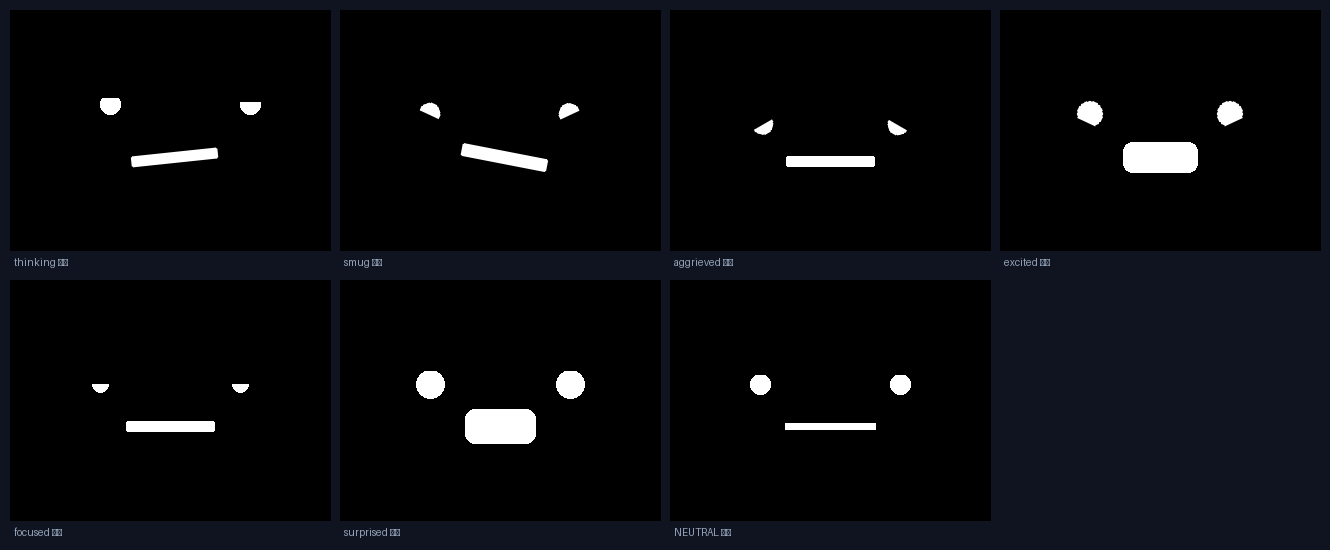
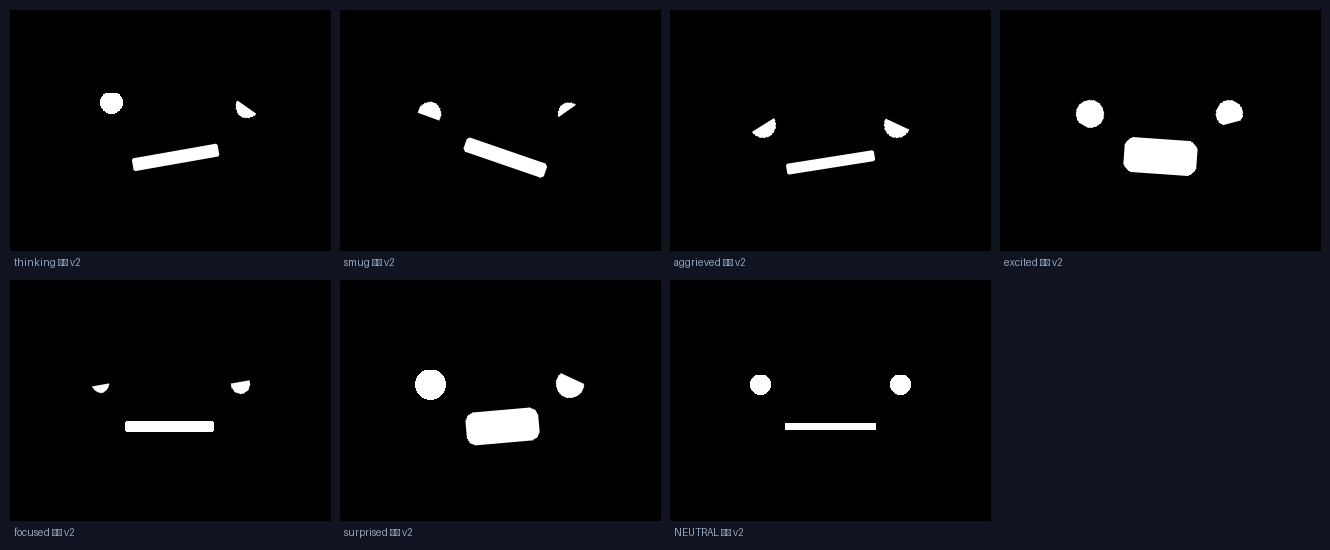
design: expression library v2 — asymmetric skeleton + pupil expressiveness
Explored 3 style directions (cute/theatrical/minimal, docs/style-exploration.png);
final v2 blends the theatrical asymmetric skeleton with cute-style pupil dynamics.
Left/right eyes now intentionally differ per expression (symmetric faces read as
icons, asymmetric as creatures). All presets re-validated through the real
firmware parser; simulator presets updated in lockstep (sync checker green);
41/41 tests pass.

Generated with [Claude Code](https://claude.ai/code)
via [Happy](https://happy.engineering)

diff --git a/docs/face-simulator.html b/docs/face-simulator.html
@@ -165,13 +165,13 @@ const P = {
   doubt:  { lw:75,lr:0, rw:75,rr:0, mw:0 },
   sleepy: { lw:35,lr:-50, rw:35,rr:-50, mw:8, my:14 },
   wink:   { lw:100,lr:0, rw:10,rr:1550, mw:22, my:8, mx:18, mr:-80 },
-  // —— 狗蛋专属预设，参数与 body-client stackchan_body/expressions.py 逐字一致 ——
-  g_thinking:  { lx:60,ly:-65,lw:85,lr:0,ls:0, rx:60,ry:-65,rw:65,rr:0,rs:0, mx:25,my:4,mw:12,mr:60 },
-  g_smug:      { lw:60,lr:1550,ls:0, rw:60,rr:1550,rs:0, mx:28,my:6,mw:14,mr:-110 },
-  g_aggrieved: { lx:15,ly:60,lw:50,lr:300,ls:0, rx:-15,ry:60,rw:50,rr:300,rs:0, my:34,mw:8,mr:0 },
-  g_excited:   { lw:88,lr:1550,ls:45, rw:88,rr:1550,rs:45, my:4,mw:55,mr:0 },
-  g_focused:   { lw:58,lr:0,ls:-30, rw:58,rr:0,rs:-30, mw:6,mr:0 },
-  g_surprised: { lw:100,lr:0,ls:70, rw:100,rr:0,rs:70, mw:65,mr:0 },
+  // —— 狗蛋专属预设 v2 (不对称骨架+瞳孔表现力)，与 stackchan_body/expressions.py 逐字一致 ——
+  g_thinking:  { lx:70,ly:-75,lw:95,lr:0,ls:20, rx:45,ry:-50,rw:50,rr:350,rs:20, mx:32,my:8,mw:14,mr:100 },
+  g_smug:      { lw:70,lr:1600,ls:15, rw:38,rr:1450,rs:15, mx:30,my:8,mw:16,mr:-190 },
+  g_aggrieved: { lx:18,ly:68,lw:52,lr:320,ls:40, rx:-18,ry:68,rw:58,rr:250,rs:40, my:36,mw:7,mr:90 },
+  g_excited:   { lw:100,lr:1500,ls:60, rw:88,rr:1650,rs:50, my:2,mw:62,mr:-40 },
+  g_focused:   { lw:52,lr:100,ls:-30, rw:64,rr:-100,rs:-20, mx:-8,mw:6,mr:0 },
+  g_surprised: { lw:100,lr:0,ls:85, rw:75,rr:250,rs:55, mx:10,mw:58,mr:50 },
 };
 function preset(name){ const base={ lx:0,ly:0,lw:100,lr:0,ls:0, rx:0,ry:0,rw:100,rr:0,rs:0, mx:0,my:0,mw:0,mr:0 }; apply({...base, ...P[name]}); }
 

diff --git a/body-client/stackchan_body/expressions.py b/body-client/stackchan_body/expressions.py
@@ -23,48 +23,50 @@ NEUTRAL: dict = {
     "mouth": {"x": 0, "y": 0, "weight": 0, "rotation": 0},
 }
 
+# v2 设计语言 (2026-07-11 风格探索后定稿): 不对称骨架 + 瞳孔表现力。
+# 左右眼参数刻意不同 —— 对称的脸是图标, 不对称的脸才是生物。
 EXPRESSIONS: dict[str, dict] = {
-    # 思考: 双眼抬向右上方"找答案", 右眼略眯出挑眉感, 嘴小幅右移微斜
+    # 思考: 左眼睁大看右上"找答案", 右眼眯起微斜出"琢磨"感, 嘴右移上斜
     # 用途: M2 长任务进行中 / 狗蛋处理请求时
     "thinking": {
-        "leftEye": {"x": 60, "y": -65, "weight": 85, "rotation": 0, "size": 0},
-        "rightEye": {"x": 60, "y": -65, "weight": 65, "rotation": 0, "size": 0},
-        "mouth": {"x": 25, "y": 4, "weight": 12, "rotation": 60},
+        "leftEye": {"x": 70, "y": -75, "weight": 95, "rotation": 0, "size": 20},
+        "rightEye": {"x": 45, "y": -50, "weight": 50, "rotation": 350, "size": 20},
+        "mouth": {"x": 32, "y": 8, "weight": 14, "rotation": 100},
     },
-    # 得意: 月牙笑眼(155°)压成半眯, 嘴歪向一侧上挑 —— "看我干得漂亮吧"
+    # 得意: 两边月牙眼弧度/开合不对称(痞气), 嘴大角度上挑歪向一侧
     # 用途: 任务顺利完成 / 被夸时
     "smug": {
-        "leftEye": {"x": 0, "y": 0, "weight": 60, "rotation": 1550, "size": 0},
-        "rightEye": {"x": 0, "y": 0, "weight": 60, "rotation": 1550, "size": 0},
-        "mouth": {"x": 28, "y": 6, "weight": 14, "rotation": -110},
+        "leftEye": {"x": 0, "y": 0, "weight": 70, "rotation": 1600, "size": 15},
+        "rightEye": {"x": 0, "y": 0, "weight": 38, "rotation": 1450, "size": 15},
+        "mouth": {"x": 30, "y": 8, "weight": 16, "rotation": -190},
     },
-    # 委屈: 八字垂眼(外高内低 30°)+眼睛内聚下看, 小瘪嘴下移
+    # 委屈: 八字垂眼两边角度略差+大瞳孔(泪眼汪汪), 小瘪嘴下移微斜
     # 用途: 任务失败 / 被大哥说了 / 长时间没人理
     "aggrieved": {
-        "leftEye": {"x": 15, "y": 60, "weight": 50, "rotation": 300, "size": 0},
-        "rightEye": {"x": -15, "y": 60, "weight": 50, "rotation": 300, "size": 0},
-        "mouth": {"x": 0, "y": 34, "weight": 8, "rotation": 0},
+        "leftEye": {"x": 18, "y": 68, "weight": 52, "rotation": 320, "size": 40},
+        "rightEye": {"x": -18, "y": 68, "weight": 58, "rotation": 250, "size": 40},
+        "mouth": {"x": 0, "y": 36, "weight": 7, "rotation": 90},
     },
-    # 兴奋: 大瞳孔(+45)月牙眼 + 大张嘴 —— 汇报好消息
+    # 兴奋: 双眼圆睁大瞳孔(左右略差)+大张嘴微歪 —— 汇报好消息
     # 用途: 大哥回家 / 任务全绿 / M2 完成播报
     "excited": {
-        "leftEye": {"x": 0, "y": 0, "weight": 88, "rotation": 1550, "size": 45},
-        "rightEye": {"x": 0, "y": 0, "weight": 88, "rotation": 1550, "size": 45},
-        "mouth": {"x": 0, "y": 4, "weight": 55, "rotation": 0},
+        "leftEye": {"x": 0, "y": 0, "weight": 100, "rotation": 1500, "size": 60},
+        "rightEye": {"x": 0, "y": 0, "weight": 88, "rotation": 1650, "size": 50},
+        "mouth": {"x": 0, "y": 2, "weight": 62, "rotation": -40},
     },
-    # 专注: 眼睑压半+瞳孔缩小聚焦, 抿直嘴 —— 监工模式
+    # 专注: 两眼眯起程度不同+反向微斜(锁定目标), 瞳孔缩小, 抿直嘴
     # 用途: M2 盯 Happy session 时的常驻脸
     "focused": {
-        "leftEye": {"x": 0, "y": 0, "weight": 58, "rotation": 0, "size": -30},
-        "rightEye": {"x": 0, "y": 0, "weight": 58, "rotation": 0, "size": -30},
-        "mouth": {"x": 0, "y": 0, "weight": 6, "rotation": 0},
+        "leftEye": {"x": 0, "y": 0, "weight": 52, "rotation": 100, "size": -30},
+        "rightEye": {"x": 0, "y": 0, "weight": 64, "rotation": -100, "size": -20},
+        "mouth": {"x": -8, "y": 0, "weight": 6, "rotation": 0},
     },
-    # 惊讶: 瞳孔放大(+70) + 嘴张大 —— 出事了/意外情况
+    # 惊讶: 一眼瞳孔放到最大一眼半眯("?!"的错愕感), 嘴张大微歪
     # 用途: 任务报错 / 检测到异常
     "surprised": {
-        "leftEye": {"x": 0, "y": 0, "weight": 100, "rotation": 0, "size": 70},
-        "rightEye": {"x": 0, "y": 0, "weight": 100, "rotation": 0, "size": 70},
-        "mouth": {"x": 0, "y": 0, "weight": 65, "rotation": 0},
+        "leftEye": {"x": 0, "y": 0, "weight": 100, "rotation": 0, "size": 85},
+        "rightEye": {"x": 0, "y": 0, "weight": 75, "rotation": 250, "size": 55},
+        "mouth": {"x": 10, "y": 0, "weight": 58, "rotation": 50},
     },
 }
 